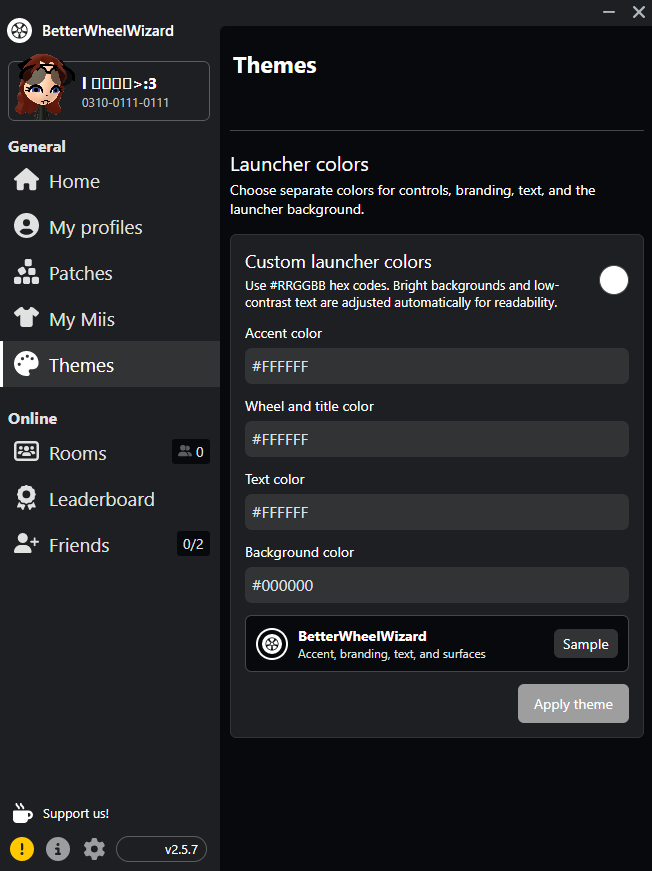
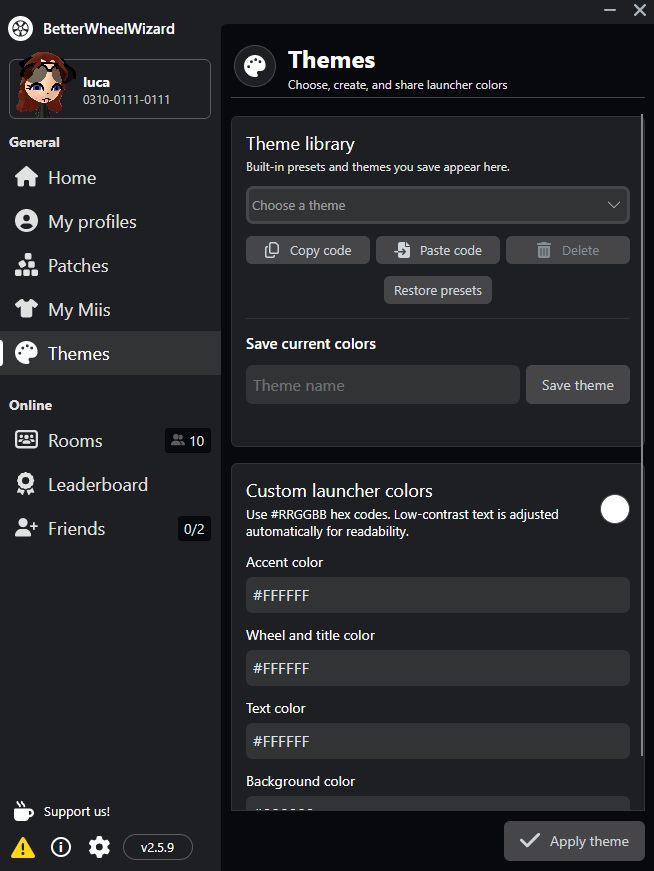
Update theme showcase for 2.5.9

diff --git a/README.md b/README.md
@@ -26,16 +26,17 @@
 - Enhanced room browser with search, VR filters, sorting, room details, and race status
 - Mii Downloader with RWFC friend-code lookup and downloadable public Miis
 - Saved-Mii search, importing, copying, and player Mii actions
-- Custom launcher colors for controls, branding, text, and backgrounds
+- Theme library with built-in presets, saved themes, and compact sharing codes
+- Direct backups for regional `rksys.dat` saves and `RRRating.pul`
 - Dolphin and WiiCompiled support
 
 ## Feature showcase
 
 ### Custom launcher themes
 
-Choose separate colors for controls, BetterWheelWizard branding, interface
-text, and the launcher background. Colors update across the launcher with
-automatic readability adjustments.
+Choose a built-in preset or save your own accent, branding, text, and
+background colors. Themes can be copied and pasted as compact sharing codes,
+while automatic contrast adjustments keep launcher text readable.
 
 <p align="center">
   <a href="docs/screenshots/custom-themes.png">
